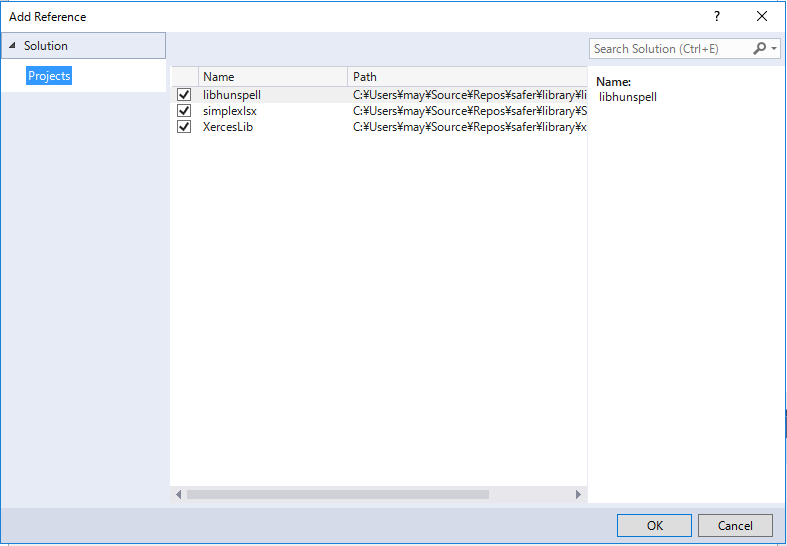
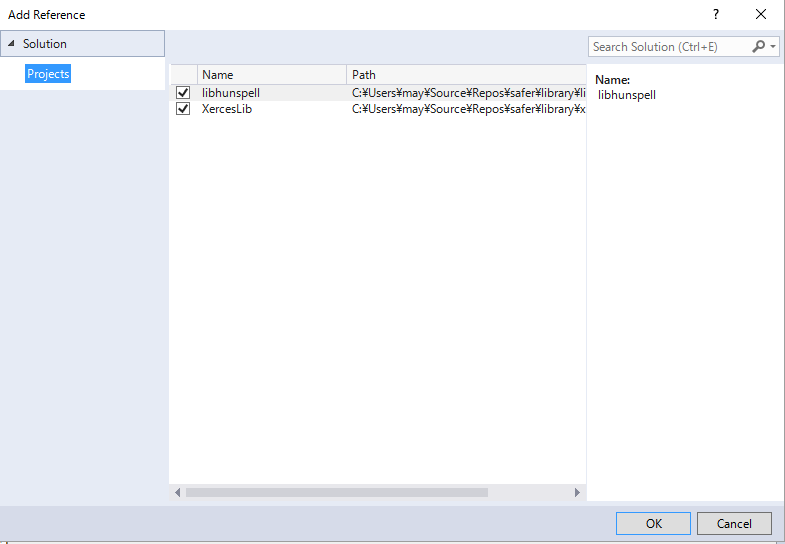
fix README.md

Changed region(s): [[0.0, 0.0, 1.0, 1.0], [0.8866, 0.0, 0.9172, 0.0312], [0.0, 0.9688, 0.0306, 1.0]]

diff --git a/README.md b/README.md
@@ -61,13 +61,13 @@ safer.exe --erfile=./sample/bad-test.a5er --cofile=./sample/test-command.xml --o
   1. Example command : ` git.exe clone --recursive https://github.com/asugeno/safer.git . `
 1. Open the "safer/safer.sln" by "Visual Studio 2013" (e.g. "Visual Studio Express 2013 for Windows Desktop")
 1. Please step on following procedure below in Visual Studio.
-  1. Add "libhunspell", "simplexlsx" and "XercesLib" project to solution of Visual Studio.
+  1. Add libhunspell and XercesLib project to solution of Visual Studio.
     1. In Solution Explorer, right-click the "safer" solution, click Add, and then click Existing Project.
     1. In the Add Existing Project dialog box, select Hunspell and Xerces-C++ project then click OK.
   1. Change the project Dependencies.
     1. In Solution Explorer, right-click the ER-StaticAnalysis solution , click Build Dependencies, and then click Project Dependencies.
     ![ProjectDependencies](image/ProjectDependencies.png)
-    1. In Project Dependencies window. To check a box "libhunspell", "simplexlsx" and "XercesLib" in "Depends on".
+    1. In Project Dependencies window. To check a box libhunspell and XercesLib in "Depends on".
     ![ProjectDependenciesMenu](image/ProjectDependenciesMenu.png)
   1. Add reference in ER-StaticAnalysis project.
     1. In Solution Explorer, right-click the "ER-StaticAnalysis project". And Click "Properties". 
@@ -75,14 +75,14 @@ safer.exe --erfile=./sample/bad-test.a5er --cofile=./sample/test-command.xml --o
     1. In ER-StaticAnalysis Property Pages window, Click the "Reference" under "Common Properties".
     ![ProjectReference2](image/ProjectReference2.png)
     1. And click "Add New Reference".
-    1. In "Add Reference" window, To check a box "libhunspell", "simplexlsx" and "XercesLib". And click "OK".
+    1. In "Add Reference" window, To check a box libhunspell and XercesLib. And click "OK".
     ![ProjectReference3](image/ProjectReference3.png)
     1. In ER-StaticAnalysis Property Pages window, Switch to "true" at "Copy Local Satellite Assemblies", "Reference Assembly Output", "Link Library Dependencies", "User Library Dependency Inputs"
-      1. Perform the same step as described above to "libhunspell" and "simplexlsx".
+      1. Perform the same step as described above to "libhunspell".
     ![ProjectReference2](image/ProjectReference2.png)
 1. Rename file
-  1. Change the file name "hunvisapi.h.in" to "hunvisapi.h" in "libhunspell" dir
-1. Change output dir on "XercesLib project".
+  1. Change the file name "hunvisapi.h.in" to "hunvisapi.h" in libhunspell dir
+1. Change output dir on "XercesLib" project.
   1. In Solution Explorer, right-click the "XercesLib project". And Click "Properties". 
   ![XercesProjectSetting1](image/XercesProjectSetting1.png)
   1. In "XercesLib Properties" window, Click "General" under the "Configuration Properties". And change the "Output Directory" value to "$(SolutionDir)$(Configuration)".
